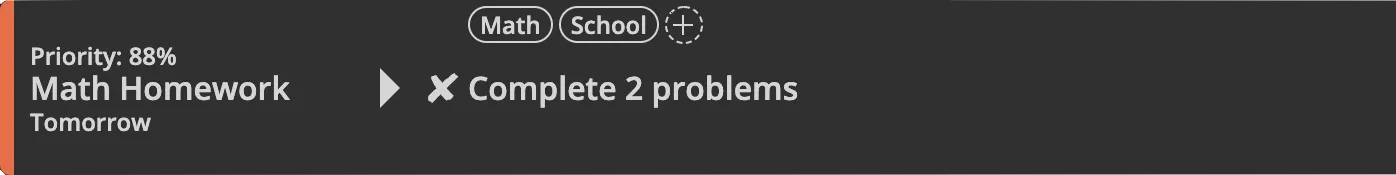
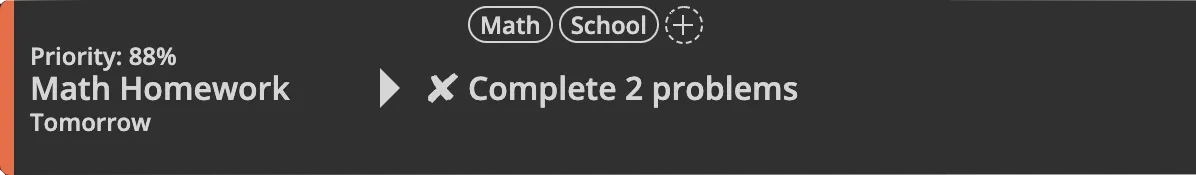
once again shorten assignemnt scroller width to save space

diff --git a/timeweb/home_page/generate_scrollers.py b/timeweb/home_page/generate_scrollers.py
@@ -28,7 +28,7 @@ for i in range(img.width - 1 - good_column_padding, good_column_padding, -1):
 top = None
 bottom = None
 left = 0
-right = img.width - 500
+right = img.width - 700
 
 count = 0
 old_color = wanted_column_colors[1]
